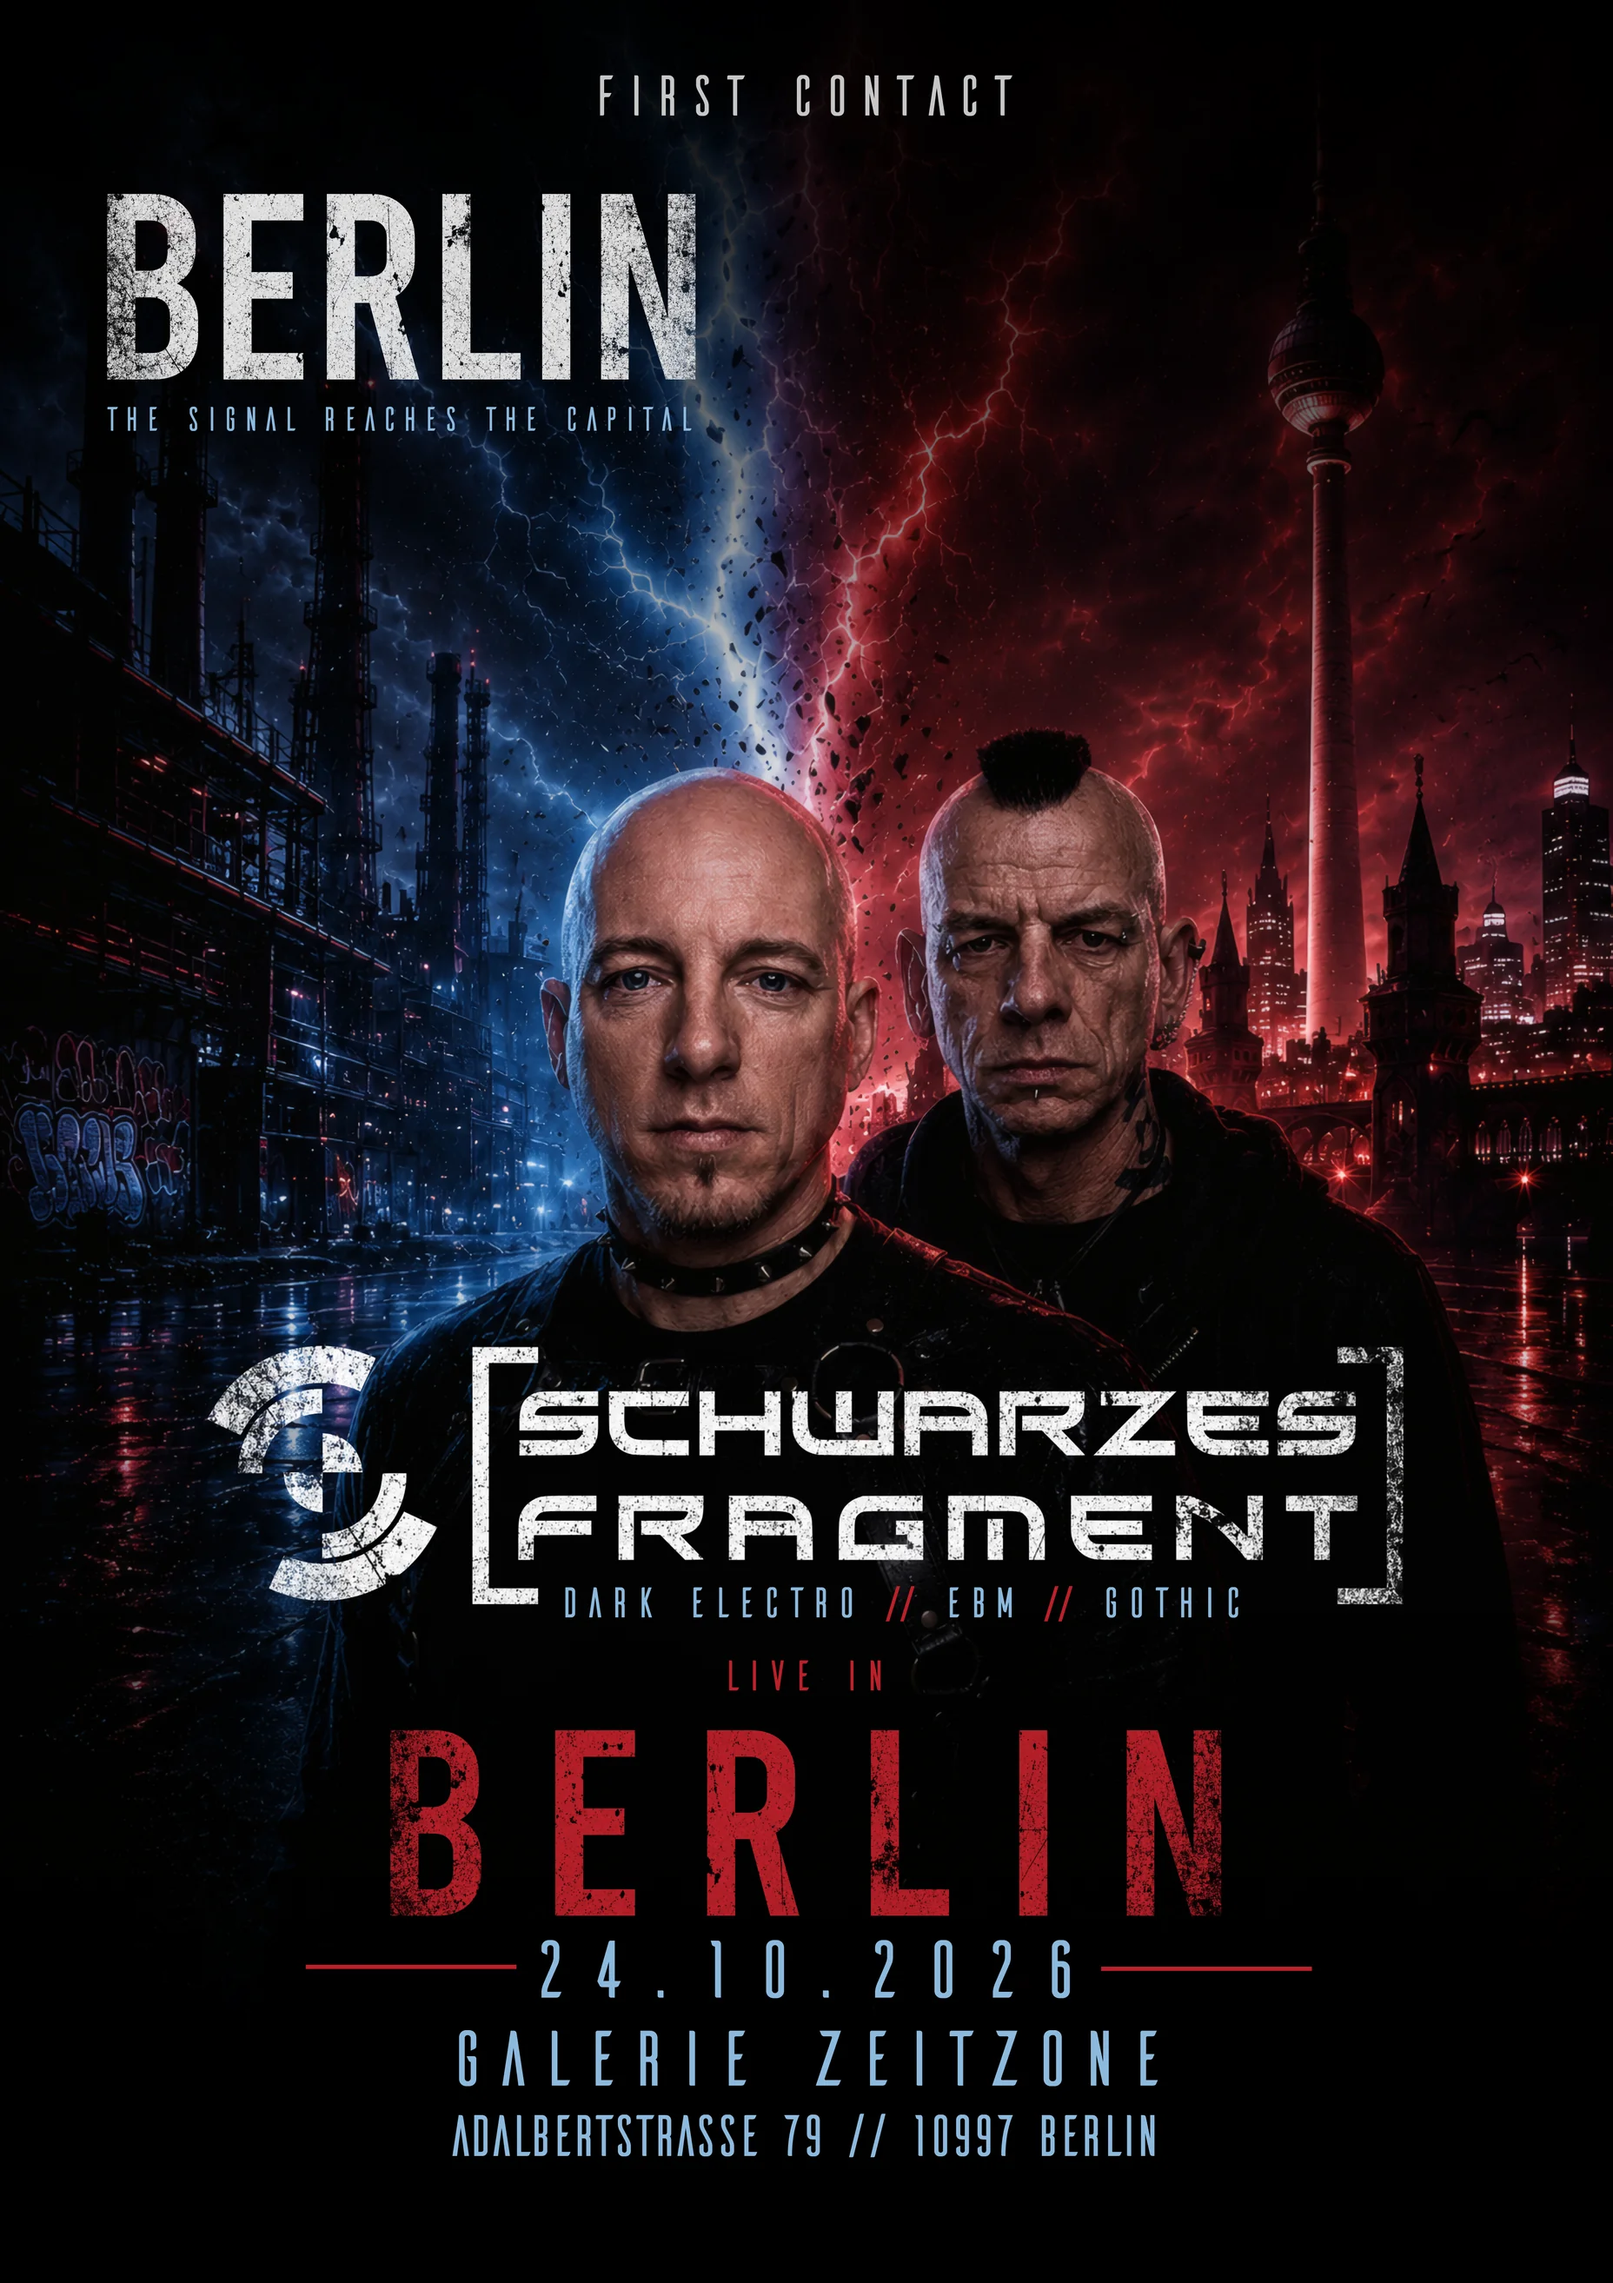
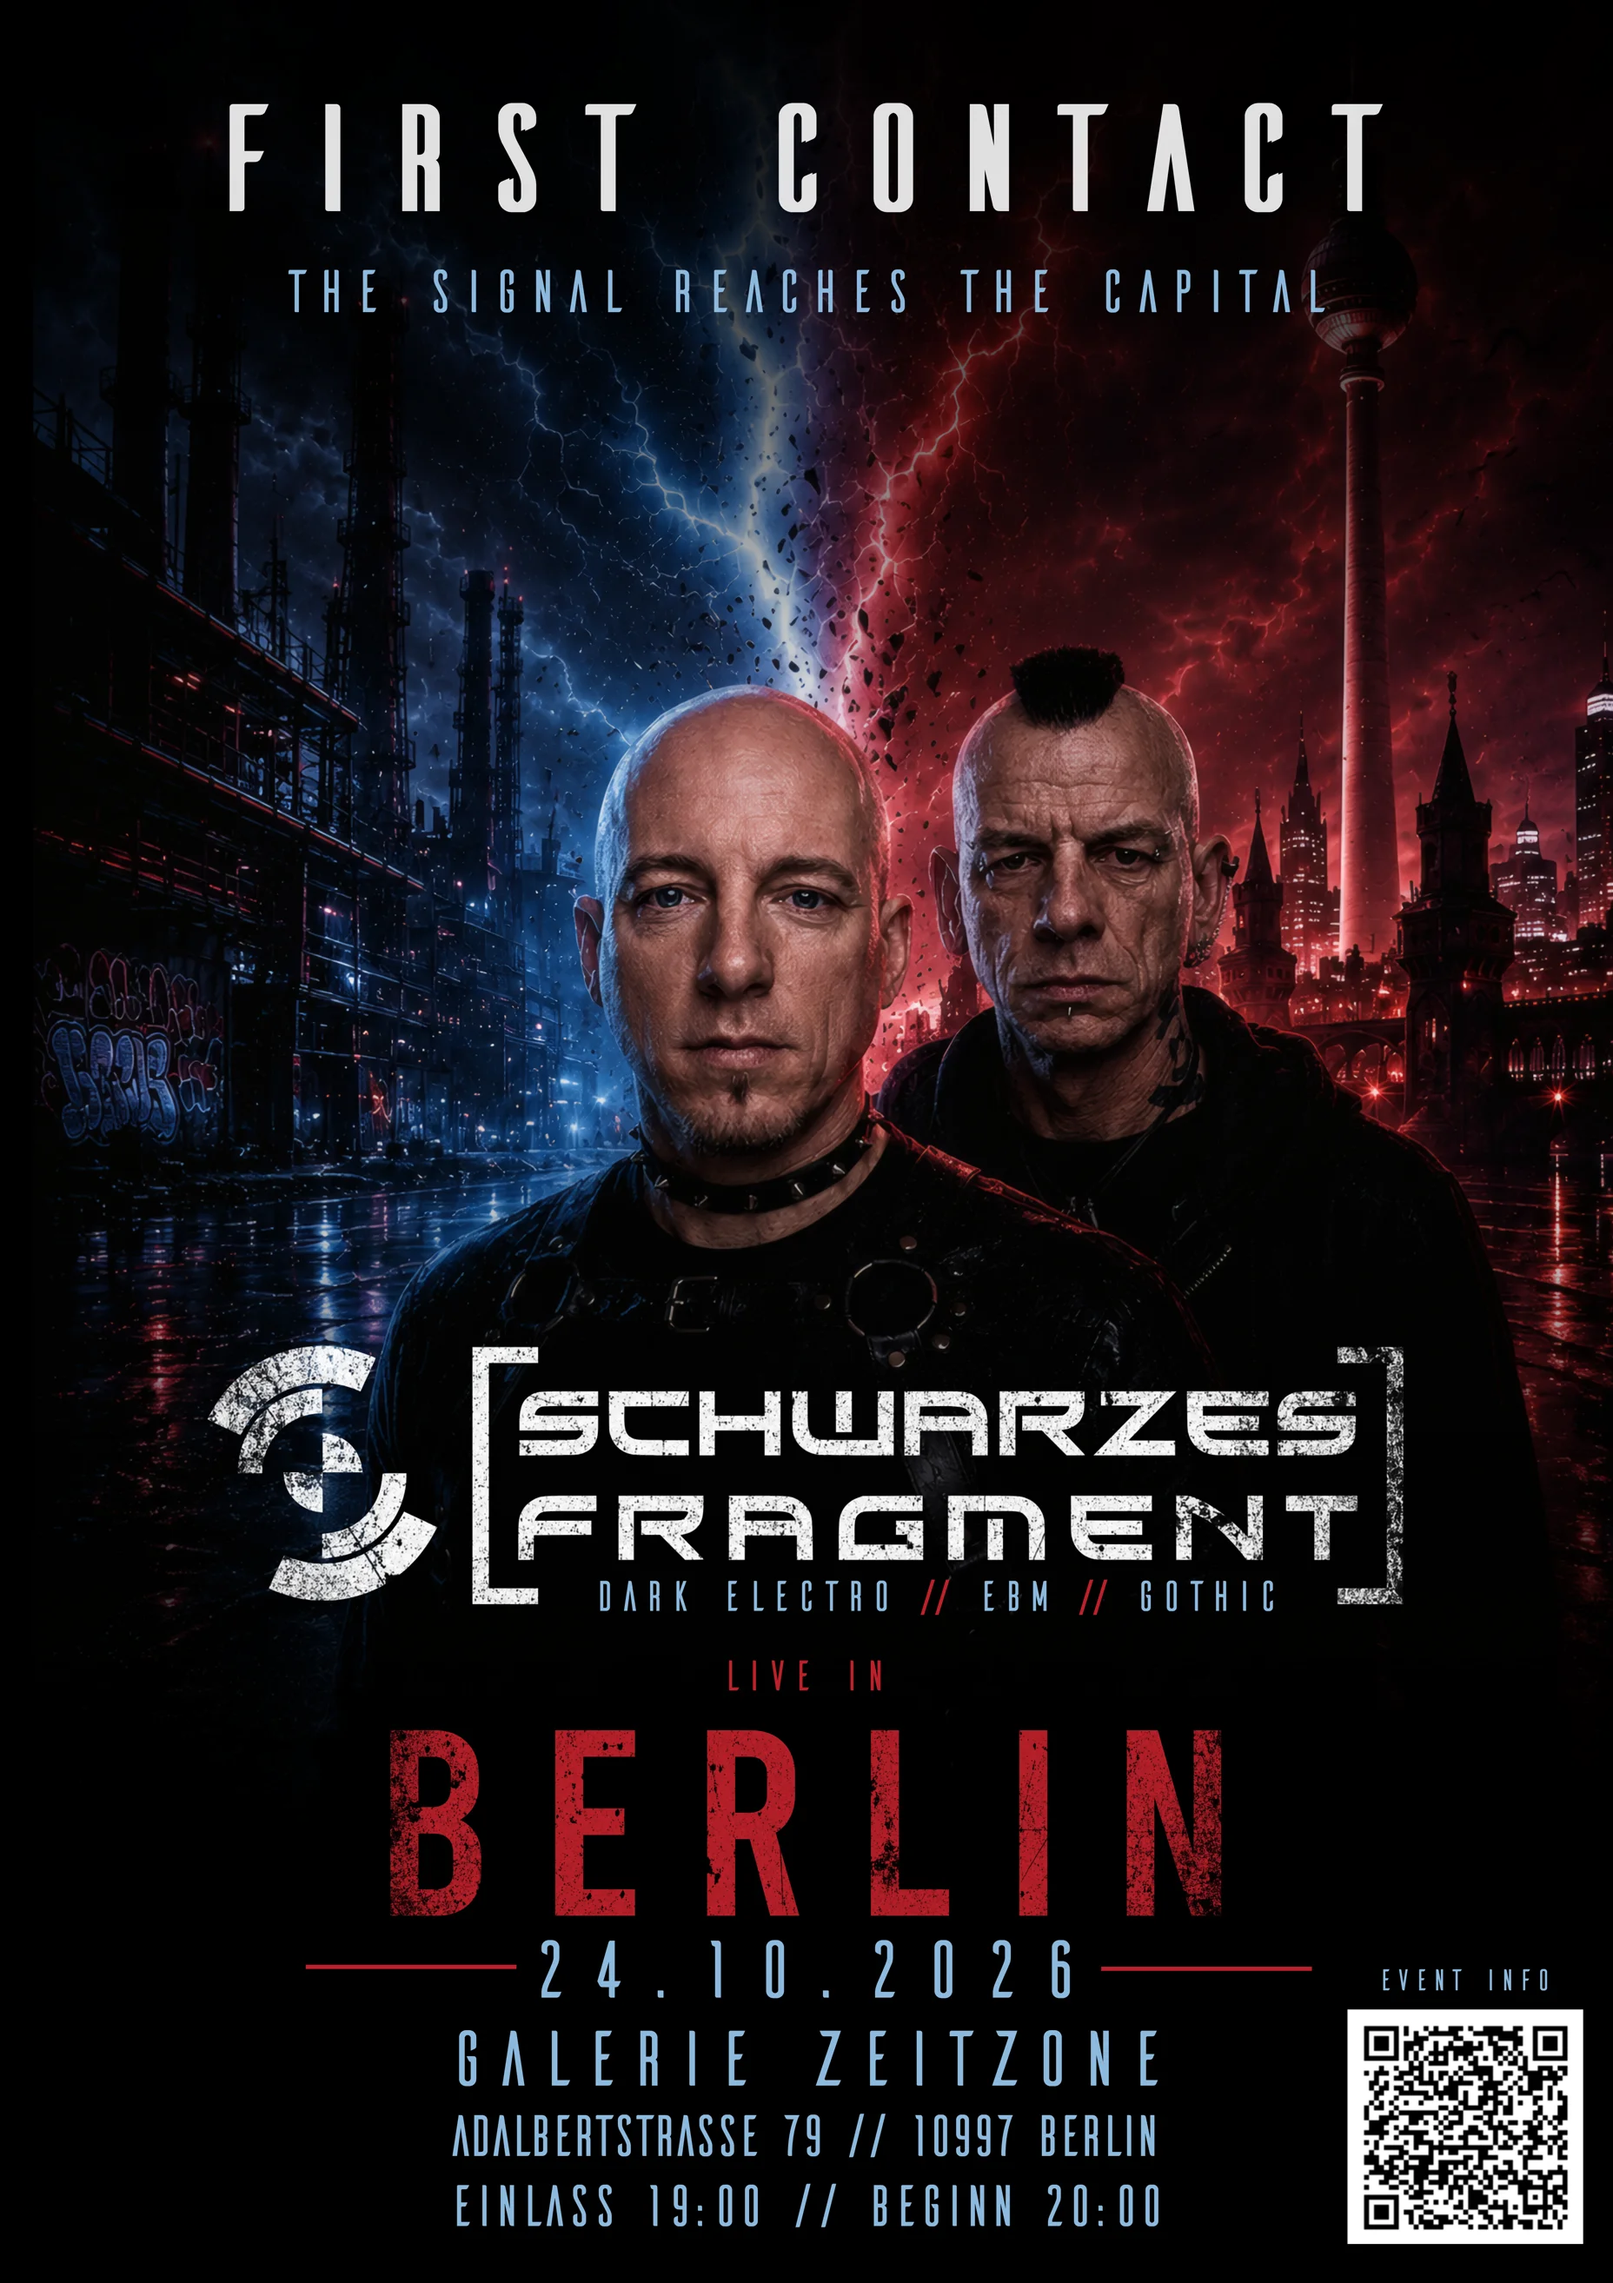
new concert flyer

diff --git a/live/berlin-zeitzone.html b/live/berlin-zeitzone.html
@@ -122,7 +122,7 @@
              Adalbertstraße 79<br>
              10997 Berlin · Deutschland / Germany</p>
           <p>Samstag, 24. Oktober 2026 <span class="lbl-en">/ Saturday, 24 October 2026</span><br>
-             Einlass &amp; Beginn <span class="lbl-en">/ Doors &amp; Show</span>: <em>wird bekannt gegeben / TBA</em></p>
+             Einlass <span class="lbl-en">/ Doors</span> 19:00 · Beginn <span class="lbl-en">/ Show</span> 20:00</p>
           <p>Eintritt <span class="lbl-en">/ Admission</span>: <em>wird bekannt gegeben / TBA</em></p>
         </div>
       </section>
@@ -133,7 +133,7 @@
           <a class="share-grid__item" href="https://maps.google.com/?q=Galerie+ZeitZone+Adalbertstra%C3%9Fe+79+10997+Berlin" target="_blank" rel="noopener noreferrer">
             <span class="share-grid__icon">📍</span> Google Maps
           </a>
-          <a class="share-grid__item" href="https://www.google.com/calendar/render?action=TEMPLATE&text=Schwarzes+Fragment+live+in+Berlin+%E2%80%93+First+Contact&dates=20261024T190000/20261024T230000&details=Schwarzes+Fragment+live+in+Berlin+%E2%80%93+First+Contact%2C+der+Klang+erreicht+die+Hauptstadt.+Uhrzeit+wird+bekannt+gegeben.&location=Galerie+ZeitZone%2C+Adalbertstra%C3%9Fe+79%2C+10997+Berlin" target="_blank" rel="noopener noreferrer">
+          <a class="share-grid__item" href="https://www.google.com/calendar/render?action=TEMPLATE&text=Schwarzes+Fragment+live+in+Berlin+%E2%80%93+First+Contact&dates=20261024T190000/20261024T230000&details=Schwarzes+Fragment+live+in+Berlin+%E2%80%93+First+Contact%2C+der+Klang+erreicht+die+Hauptstadt.+Einlass+19%3A00%2C+Beginn+20%3A00.&location=Galerie+ZeitZone%2C+Adalbertstra%C3%9Fe+79%2C+10997+Berlin" target="_blank" rel="noopener noreferrer">
             <span class="share-grid__icon">📅</span> In Kalender / Add to Calendar
           </a>
         </div>
@@ -171,7 +171,9 @@
       "@type": "MusicEvent",
       "name": "Schwarzes Fragment · First Contact Berlin",
       "description": "Schwarzes Fragment live in Berlin — First Contact @ Galerie ZeitZone. Erste Berliner Show. / Schwarzes Fragment live in Berlin — First Contact @ Galerie ZeitZone. First Berlin show.",
-      "startDate": "2026-10-24",
+      "startDate": "2026-10-24T20:00:00+02:00",
+      "endDate": "2026-10-24T23:00:00+02:00",
+      "doorTime": "2026-10-24T19:00:00+02:00",
       "eventStatus": "https://schema.org/EventScheduled",
       "eventAttendanceMode": "https://schema.org/OfflineEventAttendanceMode",
       "location": {

diff --git a/index.html b/index.html
@@ -204,7 +204,9 @@
           "@type": "MusicEvent",
           "name": "Schwarzes Fragment · First Contact Berlin",
           "description": "Schwarzes Fragment live in Berlin — First Contact @ Galerie ZeitZone. First Schwarzes Fragment show in Berlin.",
-          "startDate": "2026-10-24",
+          "startDate": "2026-10-24T20:00:00+02:00",
+          "endDate": "2026-10-24T23:00:00+02:00",
+          "doorTime": "2026-10-24T19:00:00+02:00",
           "eventStatus": "https://schema.org/EventScheduled",
           "eventAttendanceMode": "https://schema.org/OfflineEventAttendanceMode",
           "location": {

diff --git a/index_de.html b/index_de.html
@@ -204,7 +204,9 @@
           "@type": "MusicEvent",
           "name": "Schwarzes Fragment · First Contact Berlin",
           "description": "Schwarzes Fragment live in Berlin — First Contact @ Galerie ZeitZone. Erste Schwarzes-Fragment-Show in Berlin.",
-          "startDate": "2026-10-24",
+          "startDate": "2026-10-24T20:00:00+02:00",
+          "endDate": "2026-10-24T23:00:00+02:00",
+          "doorTime": "2026-10-24T19:00:00+02:00",
           "eventStatus": "https://schema.org/EventScheduled",
           "eventAttendanceMode": "https://schema.org/OfflineEventAttendanceMode",
           "location": {
